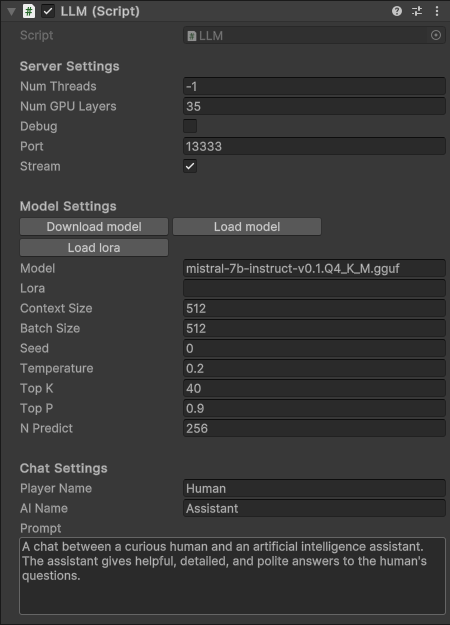
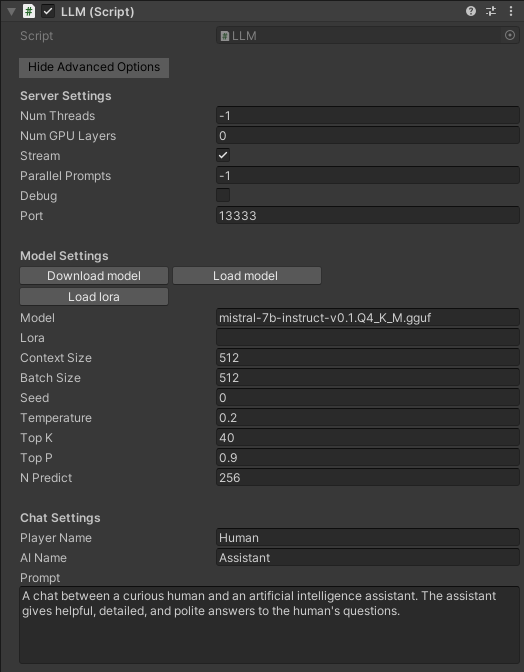
add parallelPrompts option to Readme, updte advanced options

diff --git a/README.md b/README.md
@@ -168,6 +168,8 @@ The server can be either a LLMUnity server or a standard [llama.cpp server](http
 
 ## Options
 
+- `Show/Hide Advanced Options` Toggle to show/hide advanced options from below
+
 #### :computer: Server Settings
 
 <div>
@@ -178,10 +180,12 @@ The server can be either a LLMUnity server or a standard [llama.cpp server](http
 - `Num GPU Layers` number of model layers to offload to the GPU.
 If set to 0 the GPU is not used. Use a large number i.e. >30 to utilise the GPU as much as possible.<br>
 If the user's GPU is not supported, the LLM will fall back to the CPU
-- `Debug` select to log the output of the model in the Unity Editor
-- `Port` port to run the server
 - `Stream` select to receive the reply from the model as it is produced (recommended!).<br>
 If it is not selected, the full reply from the model is received in one go
+- Advanced options:
+  - `Parallel Prompts` number of prompts that can happen in parallel (default: -1 = number of LLM/LLMClient objects)
+  - `Debug` select to log the output of the model in the Unity Editor
+  - `Port` port to run the server
 
 #### :hugs: Model Settings
 - `Download model` click to download the default model (Mistral 7B Instruct)
@@ -189,13 +193,14 @@ If it is not selected, the full reply from the model is received in one go
 - `Load lora` click to load a LORA model in .bin format
 - `Model` the model being used (inside the Assets/StreamingAssets folder)
 - `Lora` the LORA model being used (inside the Assets/StreamingAssets folder)
-- `Context Size` Size of the prompt context (0 = context size of the model)
-- `Batch Size` Batch size for prompt processing (default: 512)
-- `Seed` seed for reproducibility. For random results every time select -1
-- `Temperature` LLM temperature, lower values give more deterministic answers
-- `Top K` top-k sampling (default: 40, 0 = disabled)
-- `Top P` top-p sampling (default: 0.9, 1.0 = disabled)
-- `Num Predict` number of tokens to predict (default: 256, -1 = infinity, -2 = until context filled)
+- Advanced options:
+  - `Context Size` Size of the prompt context (0 = context size of the model)
+  - `Batch Size` Batch size for prompt processing (default: 512)
+  - `Seed` seed for reproducibility. For random results every time select -1
+  - `Temperature` LLM temperature, lower values give more deterministic answers
+  - `Top K` top-k sampling (default: 40, 0 = disabled)
+  - `Top P` top-p sampling (default: 0.9, 1.0 = disabled)
+  - `Num Predict` number of tokens to predict (default: 256, -1 = infinity, -2 = until context filled)
 
 #### :left_speech_bubble: Chat Settings
 - `Player Name` the name of the player
